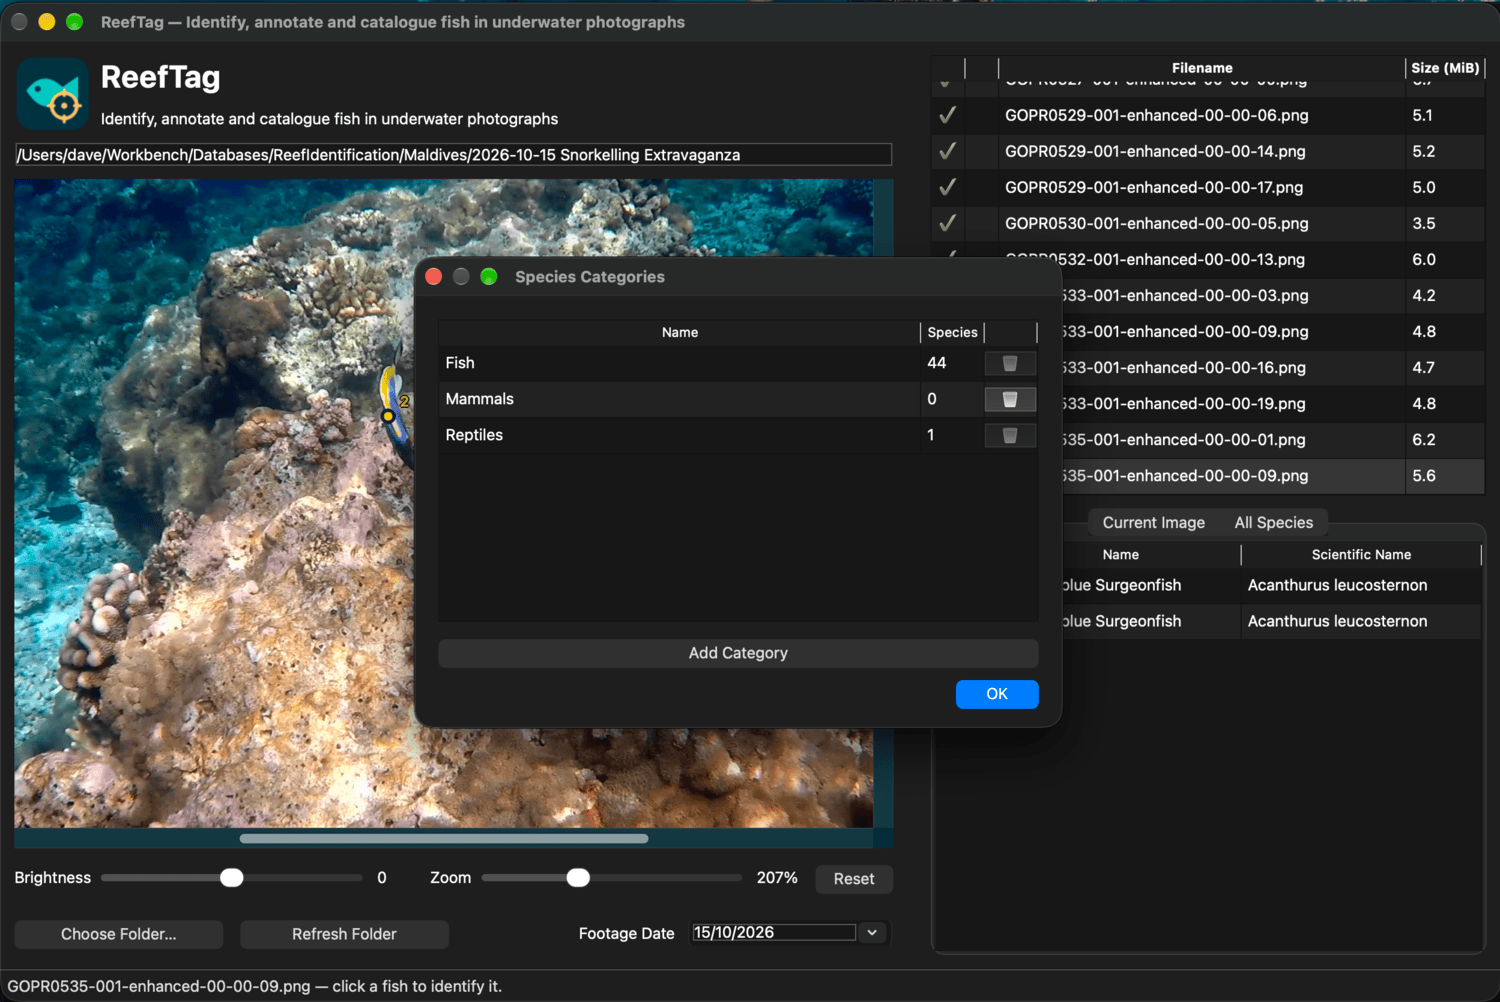
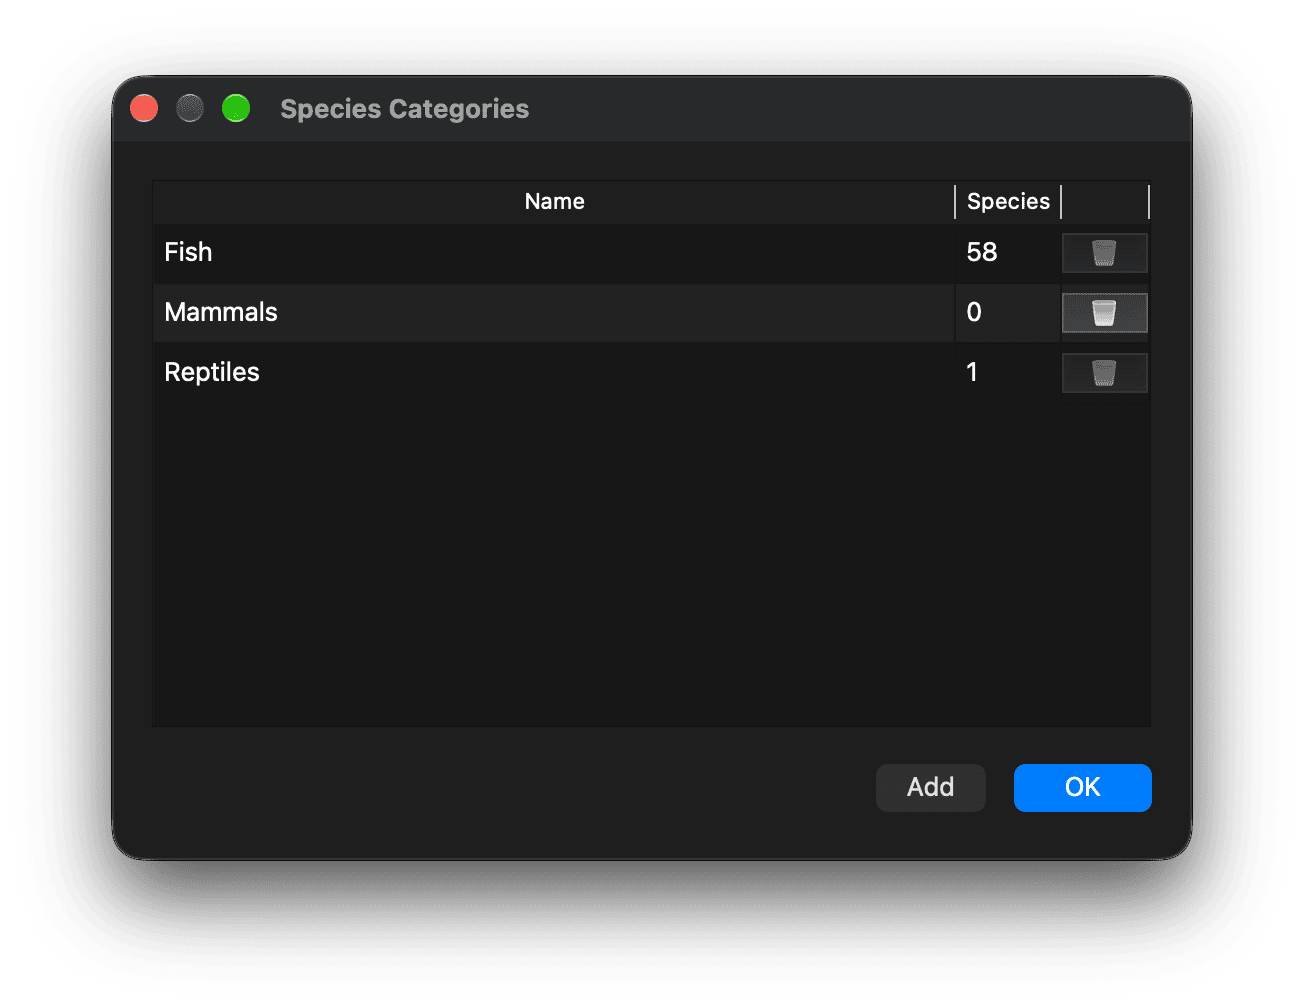
Update diagram screenshots

diff --git a/src/reef_tag/ui/category_dialog.py b/src/reef_tag/ui/category_dialog.py
@@ -5,7 +5,7 @@ import sqlite3
 from PySide6.QtWidgets import (
     QAbstractItemView,
     QDialog,
-    QDialogButtonBox,
+    QHBoxLayout,
     QHeaderView,
     QInputDialog,
     QMessageBox,
@@ -44,12 +44,16 @@ class CategoriesDialog(QDialog):
         self.table.setColumnWidth(2, 44)
         self.table.cellDoubleClicked.connect(self.edit_category)
         layout.addWidget(self.table)
-        add = QPushButton("Add Category")
+        buttons = QHBoxLayout()
+        buttons.addStretch()
+        add = QPushButton("Add")
         add.clicked.connect(lambda: self.edit_category(-1, 0))
-        layout.addWidget(add)
-        buttons = QDialogButtonBox(QDialogButtonBox.StandardButton.Ok)
-        buttons.accepted.connect(self.accept)
-        layout.addWidget(buttons)
+        buttons.addWidget(add)
+        ok = QPushButton("OK")
+        ok.setDefault(True)
+        ok.clicked.connect(self.accept)
+        buttons.addWidget(ok)
+        layout.addLayout(buttons)
         self.reload()
 
     def reload(self) -> None:

diff --git a/src/reef_tag/ui/folder_mapping_dialog.py b/src/reef_tag/ui/folder_mapping_dialog.py
@@ -65,7 +65,7 @@ class FolderManagementDialog(QDialog):
         self.repository = repository
         self.current_folder = current_folder.resolve() if current_folder is not None else None
         self.changed = False
-        self.setWindowTitle("Folder Management")
+        self.setWindowTitle("Folders")
         self.setModal(True)
         self.resize(1100, 460)
         layout = QVBoxLayout(self)
